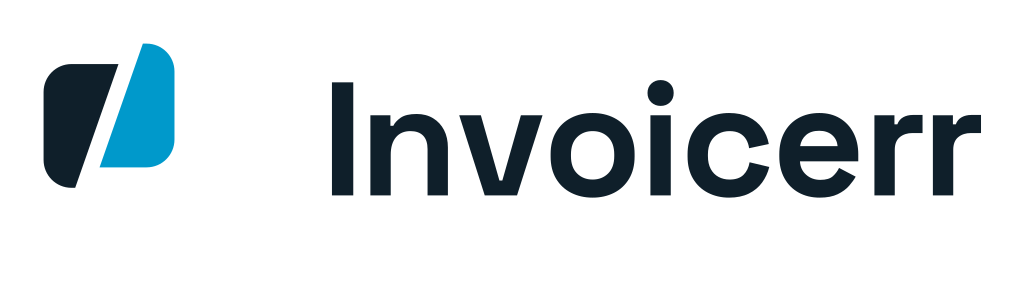
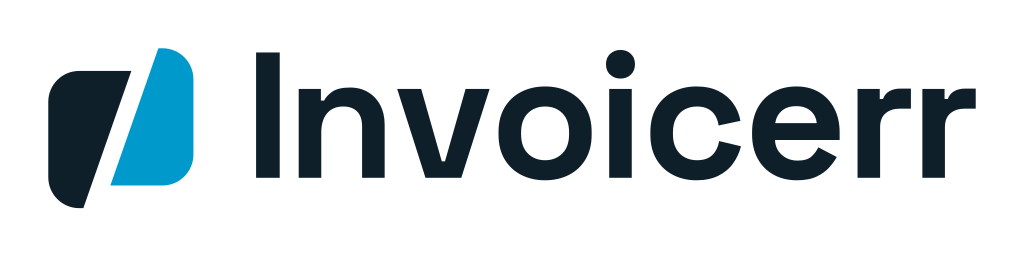
Re-sync the lockup after the geometry fix, and regenerate its rasters
invoicerr-app/invoicerr#458 recentred the mark on the wordmark's ink centroid
and dropped the padding the canvas carried. The three lockup SVGs here were
copies of the frontend files as they stood before that, so they still carried
the old viewBox and the old group transforms.

Copied again from invoicerr@832ff1a1: logo/lockup.svg, logo/lockup-ink.svg,
logo/lockup-white.svg. Each is byte for byte the frontend file, which is how
this repository holds the other copies too.

The four rasters derived from them were regenerated from the vector with
rsvg-convert at the nominal size, not resampled from the older bitmaps. They
are shorter than before because the lockup is: lockup-1024.png went from
1024 x 285 to 1024 x 257. No markup in the README fixes a height, so nothing
there needed changing.

PROVENANCE.md gains a "Re-syncs" section, because "copied byte for byte" is
only a useful claim when the date it was last true is recorded.

Claude-Session: https://claude.ai/code/session_017GcBNJjdKGxtCnNwDqo3dB

Changed region(s): [[0.25, 0.1868, 0.9688, 0.716], [0.0312, 0.1556, 0.1875, 0.8093]]

diff --git a/PROVENANCE.md b/PROVENANCE.md
@@ -3,7 +3,9 @@
 Nothing here was drawn for this repository. Every file is either copied byte for byte out of a
 product repository, or derived mechanically from one of those files. This page records which.
 
-Assembled on 2026-09-24.
+Assembled on 2026-09-24. Re-synced the same day after `invoicerr-app/invoicerr#458` corrected the
+lockup's geometry: the three lockup SVGs were copied again from the frontend, and the four rasters
+derived from them were regenerated rather than resampled. See "Re-syncs" at the foot of this page.
 
 ## Copied unchanged
 
@@ -81,3 +83,25 @@ touched.
 - **A light Open Graph card**, for the same reason.
 - **A light-ground variant of anything else.** Not needed: the default lockup, mark and wordmark are
   already the light-ground versions.
+
+## Re-syncs
+
+A source file in a product repository can change after it was copied here. When that happens the
+copy is taken again and every raster derived from it is regenerated from the vector, never resampled
+from the older bitmap. Each re-sync is recorded here with what moved and why.
+
+### 2026-09-24 - lockup geometry
+
+`invoicerr-app/invoicerr#458` recentred the mark on the wordmark's ink centroid and removed the
+padding the canvas carried. The viewBox went from `0 0 258.6978 72` to `0 0 233.3267 58.428`, and
+the two group transforms moved with it. Every path `d` string and every fill is unchanged: no
+artwork was redrawn and no font was substituted for the outlined wordmark.
+
+Copied again: `logo/lockup.svg`, `logo/lockup-ink.svg`, `logo/lockup-white.svg`.
+
+Regenerated: `png/lockup-1024.png`, `png/lockup-512.png`, `png/lockup-white-1024.png` with
+`rsvg-convert -w <size>`, and `preview/lockup-white-on-dark.png` the same way then
+`magick -background '#0a1215' -alpha remove -bordercolor '#0a1215' -border 40`.
+
+The rasters are shorter than before because the lockup is: `png/lockup-1024.png` went from
+1024 x 285 to 1024 x 257. Nothing in the README fixes a height, so no markup needed changing.
